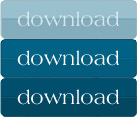
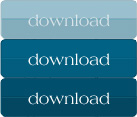
styling for TD

diff --git a/media/css/main.css b/media/css/main.css
@@ -297,13 +297,13 @@ th.right { padding-right: 10px;}
 .right { text-align: right;}
 td.lawmakerName a { float: none; margin-right: 0;}
 
-table#mainPageTable { width: 650px; margin-top: 30px;}
+table#mainPageTable { width: 650px; margin-top: 30px; border: none;}
 table#mainPageTable img { border: 2px solid #e0e0df; width: 40px; }
 td.photo { width: 50px;}
 tr#titles th.photo { text-indent: -9999em;}
 table#mainPageTable th, #earmarksTable th, #partyTime th, .tab-area table th  { padding: 0 10px 10px 15px;}
 .mainTable th { padding: 10px;}
-.mainTable { margin-bottom: 55px; }
+.mainTable, #mainTable { margin-bottom: 55px; border: none;}
 .sort { background: url(../images/sortArrows.png) left 4px no-repeat; cursor: pointer; }
 table { margin: 15px 0 30px; border: 1px solid #E5E4DB;}
 
@@ -619,7 +619,7 @@ table .even.numerous{
 #td_nav { background: url(../images/bg_tdNav.png) right top no-repeat; margin-top: -32px; padding: 14px 0 0 0; height: 42px; margin-bottom: 25px;}
 #td_nav li { float: right; border-right: 1px solid #cacdce; padding: 0 25px; line-height: 15px; text-align: center;}
 #td_nav li.last { border-right: none;}
-#td_nav li:hover, .documentation #td_nav #documentation, .downloads #td_nav #downloads, .api #td_nav #api { font-weight: bold;}
+#td_nav li:hover, .documentation #td_nav #documentation, .downloads #td_nav #downloads, .api #td_nav #api, .flexwidth #td_nav #searchTD { font-weight: bold;}
 
 #dataTabs { margin: 0 35px 40px -3px; border-right: 1px solid #DCDCD8; padding: 20px 0; width: 90px; line-height: 16px; font-size: 95%; float: left;}
 #dataTabs li { padding: 10px 8px; border-top: 1px solid #DCDCD8; border-bottom: 1px solid #DCDCD8; border-left: 1px solid #DCDCD8; background-color: #f6f3f2;}
@@ -630,9 +630,10 @@ table .even.numerous{
 
 .leftIntro { float: left; width: 530px; padding-right: 29px; border-right: 1px dashed #DCDCD8;}
 .rightIntro { float: left; margin-left: 30px; width: 180px; }
-.previewButton { background: url(../images/btn_previewData.jpg) left top no-repeat; height: 60px; width: 168px;}
-.previewButton.enabled { background: url(../images/btn_previewData.jpg) left -60px no-repeat; }
-.previewButton.enabled:hover { background: url(../images/btn_previewData.jpg) left -120px no-repeat; } 
+
+.previewButton { background: url(../images/btn_previewData.jpg) left top no-repeat; height: 39px; width: 137px;}
+.previewButton.enabled { background: url(../images/btn_previewData.jpg) left -39px no-repeat; }
+.previewButton.enabled:hover { background: url(../images/btn_previewData.jpg) left -78px no-repeat; } 
 
 #mainSearchFilter li.intro { display: none; }
 
@@ -693,17 +694,19 @@ table .even.numerous{
 
 .filterTitle { width: 380px; float: left;}
 
-#datafilter { background-color: #F5F4F4; padding: 15px; border: 1px solid #DCDCD8; margin-bottom: 30px;}
-.flexwidth h3 { float: left; margin-right: 15px;}
+#datafilter { background-color: #F5F4F4; padding: 15px; border: 1px solid #DCDCD8; margin-bottom: 40px;}
 .flexwidth #filters { padding: 0; }
-.flexwidth #filters li { padding: 25px 15px; width: 225px; float: left;  border-right: 1px dotted #DCDCD8;}
-.flexwidth #filters li li { padding: 0; border-right: 0; margin-bottom: 0;}
+.flexwidth #filters li { padding: 25px 15px; width: 29%; float: left;  border-right: 1px dotted #DCDCD8; border-bottom: none;}
+.flexwidth #filters li li { padding: 0; border-right: 0; margin-bottom: 0; width: 100%;}
 .flexwidth #dataTabs { width: 8%; }
 .flexwidth .filterTitle { width: 160px;}
 .flexwidth select, .flexwidth input { width: 160px;}
 .daterange_field input { width: 70px;}
+.flexwidth #filterselect { width: 300px;}
 
-#displayCount { float: left; }
+#displayCount { float: left; margin-top: 15px;}
 .downloadButton { background: url(../images/btn_download.jpg) left top no-repeat; height: 39px; width: 137px; float: right;}
 .downloadButton.enabled { background: url(../images/btn_download.jpg) left -39px no-repeat; }
 .downloadButton.enabled:hover { background: url(../images/btn_download.jpg) left -78px no-repeat; }
+
+#tableDescriptors { border-bottom: 1px dashed #DCDCD8; }
